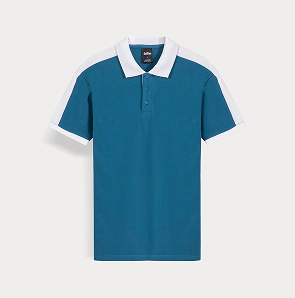
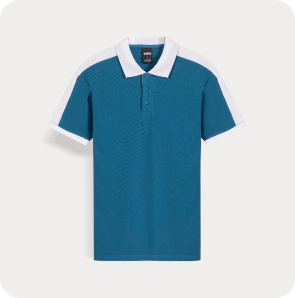
Xây dựng UI phần Card #2

diff --git a/src/components/Card/index.js b/src/components/Card/index.js
@@ -1,6 +1,9 @@
-import { useState } from 'react';
 import classNames from 'classnames/bind';
+import { FontAwesomeIcon } from '@fortawesome/react-fontawesome';
+import { faCartPlus } from '@fortawesome/free-solid-svg-icons';
+
 import styles from './Card.module.scss';
+import Button from '~/components/Button';
 import images from '~/assets/imgs/images';
 
 const cx = classNames.bind(styles);
@@ -20,22 +23,24 @@ const getRatingImage = (rating) => {
 };
 
 function Card({ product }) {
-  const [hasDiscount, setHasDiscount] = useState(!!product.discount);
+  const hasDiscount = !!product.discount;
   console.log(!!product.discount);
 
   return (
     <div className={cx('wrapper')}>
       {/* Image URL */}
-      <img src={product.imageUrl} alt={product.title} />
+      <div className="mb-4">
+        <img src={product.imageUrl} alt={product.title} />
+      </div>
 
       {/* Title */}
-      <h4>{product.title}</h4>
+      <h4 className="mb-3 fs-2 fw-bold">{product.title}</h4>
 
       {/* Description */}
-      <p className="m-0">{product.description}</p>
+      <p className={classNames(cx('product-decs'), 'pe-4', 'mb-3')}>{product.description}</p>
 
       {/* Rating */}
-      <div className="d-flex align-items-center gap-3 py-3">
+      <div className="d-flex align-items-center gap-3 mb-3">
         <div>
           <img className={cx('rating-img')} src={getRatingImage(product.rating)} alt={`Rating ${product.rating}`} />
         </div>
@@ -43,29 +48,22 @@ function Card({ product }) {
       </div>
 
       {/* Price */}
-      <p>
-        {hasDiscount && product.discount ? (
-          <>
-            <span style={{ color: 'green' }}>{product.price}$</span>
-            <span style={{ textDecoration: 'line-through', marginLeft: '10px' }}>
-              {product.discount.originalPrice}$
-            </span>
-            <span
-              style={{
-                background: '#ff4444',
-                color: 'white',
-                padding: '2px 5px',
-                borderRadius: '5px',
-                marginLeft: '10px',
-              }}
-            >
-              -{product.discount.percentage}%
-            </span>
-          </>
+      <div className="mb-4">
+        {hasDiscount ? (
+          <div className="d-flex align-items-center gap-3">
+            <span className={cx('new-price')}>{product.price}$</span>
+            <span className={cx('original-price')}>{product.discount.originalPrice}$</span>
+            <span className={cx('discount-percent')}>-{product.discount.percentage}%</span>
+          </div>
         ) : (
-          `${product.price}$`
+          <span className={cx('new-price')}>{`${product.price}$`}</span>
         )}
-      </p>
+      </div>
+
+      {/* Buy button */}
+      <Button square black leftIcon={<FontAwesomeIcon icon={faCartPlus} />}>
+        Buy now
+      </Button>
     </div>
   );
 }

diff --git a/src/pages/Home/index.js b/src/pages/Home/index.js
@@ -15,7 +15,7 @@ function Home() {
       {/* New arrivals */}
       <section className={classNames(cx('new-arrivals'), 'py-5')}>
         <div className="container">
-          <h2 className="text-center py-5">NEW ARRIVALS</h2>
+          <h2 className={classNames(cx('new-arrivals-title'), 'text-center', 'py-5')}>NEW ARRIVALS</h2>
           <div className="row">
             {products.newArrivals.map((product, index) => (
               <div className="col-6 col-md-3" key={index}>
@@ -31,9 +31,9 @@ function Home() {
       </div>
 
       {/* Top selling */}
-      <section className={classNames(cx('new-arrivals'), 'py-5')}>
+      <section className={classNames(cx('top-selling'), 'py-5')}>
         <div className="container">
-          <h2 className="text-center py-5">TOP SELLING</h2>
+          <h2 className={classNames(cx('top-selling-title'), 'text-center', 'py-5')}>TOP SELLING</h2>
           <div className="row">
             {products.topSelling.map((product, index) => (
               <div className="col-6 col-md-3" key={index}>

diff --git a/src/components/Button/index.js b/src/components/Button/index.js
@@ -3,9 +3,9 @@ import styles from './Button.module.scss';
 
 const cx = classNames.bind(styles);
 
-function Button({ children, leftIcon, rightIcon, pill, large }) {
+function Button({ children, leftIcon, rightIcon, pill, square, large, black }) {
   return (
-    <button className={cx('btn', { pill, large })}>
+    <button className={cx('btn', { pill, square, large, black })}>
       {leftIcon && <span className={cx('icon')}>{leftIcon}</span>}
       {children && <span className={cx('content')}>{children}</span>}
       {rightIcon && <span className={cx('icon')}>{rightIcon}</span>}

diff --git a/src/components/Card/Card.module.scss b/src/components/Card/Card.module.scss
@@ -1,4 +1,30 @@
+.product-decs {
+  text-align: justify;
+  text-justify: inter-word;
+}
+
 .rating-img,
 .rating-number {
   height: 20px;
+}
+
+.new-price {
+  font-weight: bold;
+  font-size: 2.4rem;
+  color: var(--green);
+}
+
+.original-price {
+  font-weight: bold;
+  font-size: 2.4rem;
+  color: #a6aebf;
+  text-decoration: line-through;
+}
+
+.discount-percent {
+  padding: 5px 8px;
+  font-size: 1.4rem;
+  border-radius: 999px;
+  color: #ff3333;
+  background-color: #ffebeb;
 }

diff --git a/src/components/Button/Button.module.scss b/src/components/Button/Button.module.scss
@@ -36,3 +36,21 @@
   font-size: 2.4rem;
   border-width: 3px;
 }
+
+.square {
+  width: 120px;
+  height: 48px;
+  border-radius: 8px;
+}
+
+.black {
+  color: var(--white);
+  background-color: var(--black);
+  border-color: transparent;
+  transition: opacity 0.2s, transform 0.2s;
+
+  &:hover {
+    opacity: 0.7;
+    transform: scale(1.1);
+  }
+}

diff --git a/src/data/product/index.js b/src/data/product/index.js
@@ -108,7 +108,7 @@ export const products = {
   topSelling,
   all: [
     ...newArrivals,
-    topSelling,
+    ...topSelling,
     {
       imageUrl: images.poloTrims,
       title: 'Polo with Contrast Trims',

diff --git a/src/components/GlobalStyles/GlobalStyles.scss b/src/components/GlobalStyles/GlobalStyles.scss
@@ -5,6 +5,7 @@
   --white: #fff;
   --black: #000;
   --gray: #f0f0f0;
+  --green: #06923e;
   --default-layout-header-height: 60px;
 }
 

diff --git a/src/pages/Home/Home.module.scss b/src/pages/Home/Home.module.scss
@@ -1,0 +1,5 @@
+.top-selling-title,
+.new-arrivals-title {
+  font-weight: bold;
+  font-size: 4.8rem;
+}
